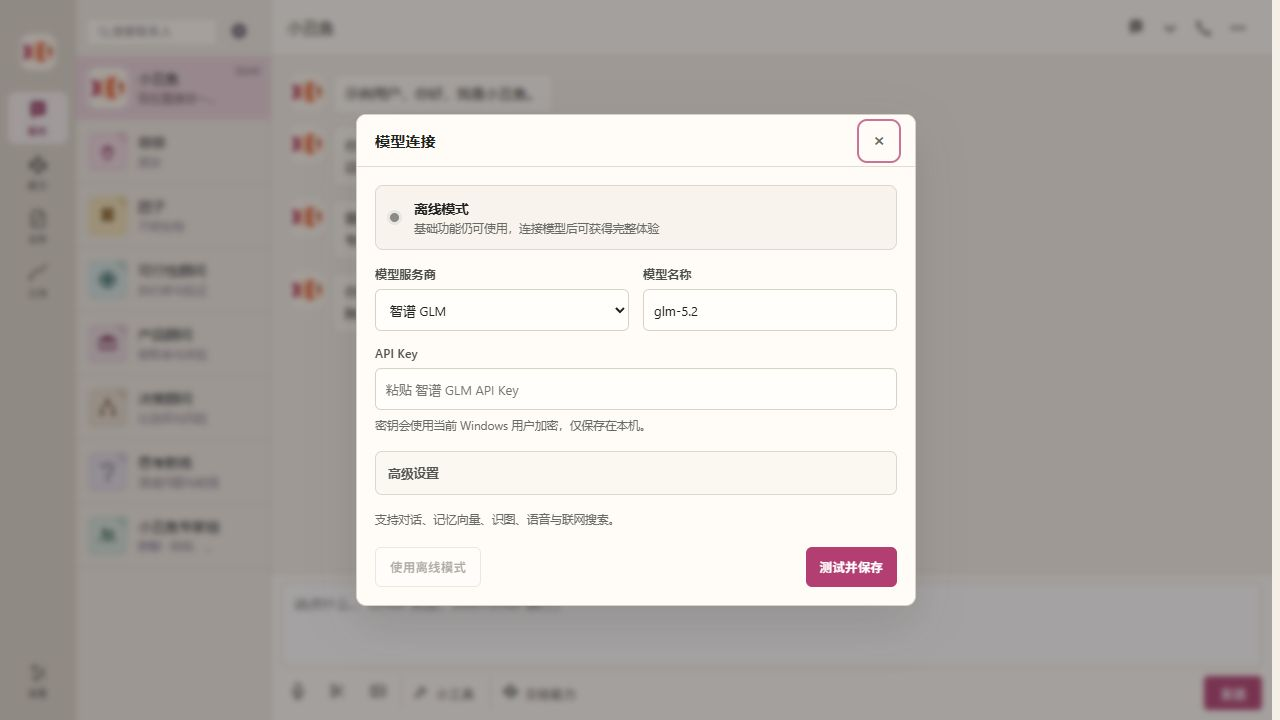
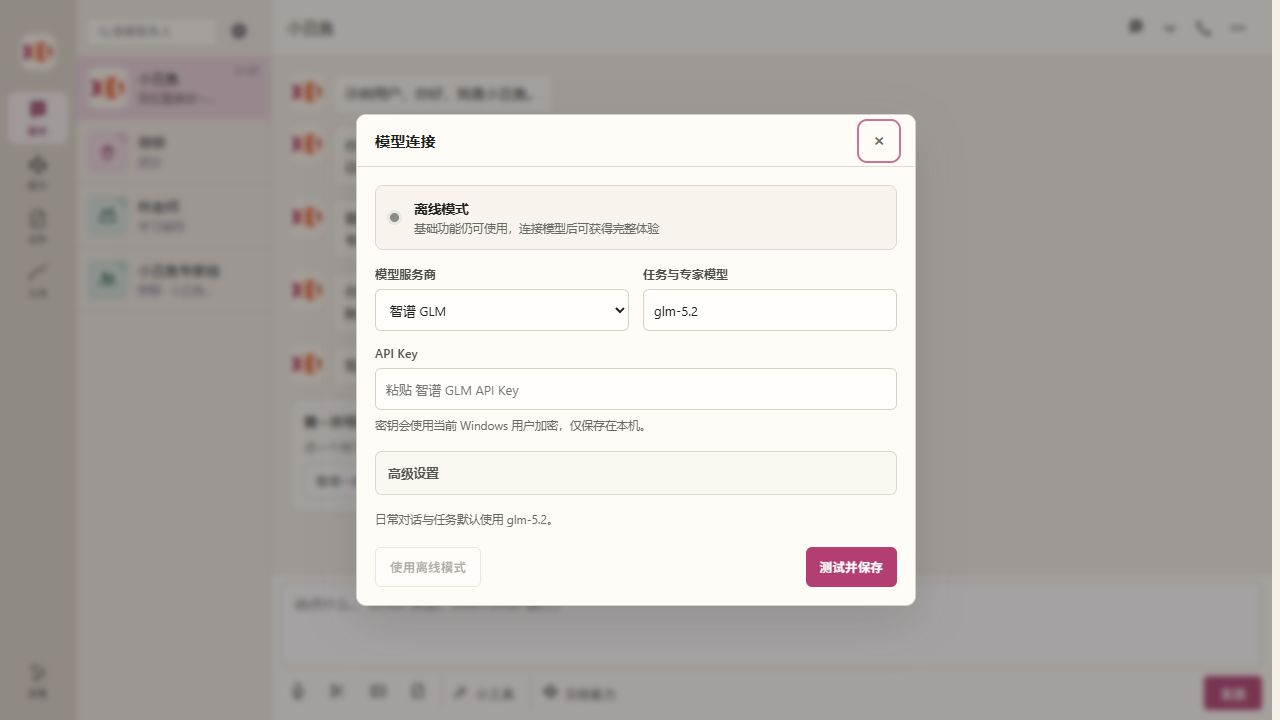
feat(companion): clarify roles and expert routing

diff --git a/sdk/typescript/examples/companion/web/index.html b/sdk/typescript/examples/companion/web/index.html
@@ -2256,6 +2256,24 @@
     color:#b5b8bf;
     font-size:13px;
   }
+  .role-intro-state { min-height:360px; padding:28px; }
+  .role-intro-card {
+    width:min(520px,100%);
+    padding:22px 24px;
+    border:1px solid #ddd8cf;
+    border-radius:16px;
+    background:#fffdf9;
+    text-align:left;
+    box-shadow:0 10px 30px rgba(58,48,38,.05);
+  }
+  .role-intro-head { display:flex; align-items:center; gap:12px; margin-bottom:14px; }
+  .role-intro-head .avatar { width:42px; height:42px; flex:0 0 42px; border-radius:11px; overflow:hidden; display:grid; place-items:center; }
+  .role-intro-head h2 { margin:0; color:#25231f; font-size:18px; font-weight:760; }
+  .role-intro-card > p { margin:0 0 12px; color:#66625b; font-size:13px; line-height:1.65; }
+  .role-intro-card ul { margin:0; padding:0; list-style:none; display:grid; gap:8px; }
+  .role-intro-card li { position:relative; padding-left:16px; color:#35322d; font-size:13px; line-height:1.55; }
+  .role-intro-card li::before { content:""; position:absolute; left:0; top:.62em; width:5px; height:5px; border-radius:50%; background:#b73870; }
+  .role-intro-hint { margin-top:14px !important; padding-top:12px; border-top:1px solid #ebe6de; color:#8a8379 !important; }
   .empty-prompts span {
     background:#fff;
     border-color:#e5e5e5;
@@ -3079,7 +3097,6 @@
         <button class="smitem" id="sm-group" type="button"><span class="smitem-icon" data-icon="users"></span><span><b>群聊与成员</b><small>发起群聊，或管理当前群聊</small></span></button>
         <button class="smitem" id="sm-avatar" type="button"><span class="smitem-icon" data-icon="image"></span><span><b>我的头像</b><small>更换自己的聊天头像</small></span></button>
         <button class="smitem" id="sm-model" type="button"><span class="smitem-icon" data-icon="link"></span><span><b>模型连接</b><small id="sm-model-summary">选择服务商、模型与 API Key</small></span></button>
-        <button class="smitem" id="sm-persona" type="button"><span class="smitem-icon" data-icon="user"></span><span><b>专家与角色</b><small>调整专家和陪伴角色的表达</small></span></button>
         <button class="smitem" id="sm-data" type="button"><span class="smitem-icon" data-icon="brain"></span><span><b>记忆与数据</b><small>查看、纠正和删除本机保存的信息</small></span></button>
         <button class="smitem dev-only" id="sm-sources" type="button"><span class="smitem-icon" data-icon="database"></span><span><b>内容来源</b><small>维护本机来源与连接</small></span></button>
         <button class="smitem dev-only" id="sm-toolsettings" type="button"><span class="smitem-icon" data-icon="settings"></span><span><b>工具设置</b><small>调整翻译、转写和润色</small></span></button>
@@ -3659,6 +3676,7 @@
 <script>
 const BUILD = "v16 clownfish-identity-migration";
 const APP_PERSONA_ID = "clownfish";
+const ADVISORY_GROUP_ID = "nemos_advisory_group";
 const PERSONA_ID_MIGRATIONS = new Map([
   [String.fromCharCode(...[122, 104, 105, 119, 101, 105]), "clownfish"],
   [String.fromCharCode(...[109, 117, 115, 107]), "first_principles"],
@@ -4125,7 +4143,7 @@ function dedupeAppOnboarding() {
   const canonical = [
     displayName + "，你好，我是小丑鱼。",
     "你可以直接告诉我想聊什么或想完成什么。我会回答、调用能力，并把结果留在这段对话里。",
-    "需要不同专业判断时，我会按需邀请原理工程师、产品主理人、决策分析师等功能型专家；他们不会默认占据你的首页。",
+    "需要不同专业判断时，我会按需邀请可行性顾问、产品顾问、决策顾问等功能型专家；他们不会默认占据你的首页。",
     "你的长期偏好、任务记录和交付物默认保存在本机。你可以随时查看、修正或清除。",
     "现在直接说一件你想完成的事就可以。",
   ];
@@ -4296,8 +4314,61 @@ function toggleDeveloperMode() {
   applyDeveloperMode();
 }
 function chatCount() { return Object.values(chatLogs).reduce((n, arr) => n + (Array.isArray(arr) ? arr.length : 0), 0); }
+const ROLE_INTROS = {
+  clownfish: {
+    lead: "我负责把问题接住，并把事情真正推进到结果。",
+    items: ["直接回答、梳理问题和形成方案", "调用能力处理研究、文档、演示和开发任务", "按当前问题邀请专家，并统一交付结论"],
+    hint: "直接说你正在做什么，或想完成什么。",
+  },
+  feifei: {
+    lead: "我是菲菲，适合轻松、平等地聊生活和感受。",
+    items: ["听你说近况，帮助整理复杂情绪", "一起聊关系、选择和生活中的小困扰", "陪你发散灵感，把模糊感受说清楚"],
+    hint: "可以从今天发生的一件小事开始。",
+  },
+  teacher_lin: {
+    lead: "我是林老师，目标是让你真正理解，并能自己解决同类问题。",
+    items: ["用背景、例子和反例讲清概念", "把题目拆成步骤，卡住时及时示范", "整理复习结构，用小测和迁移练习检查掌握"],
+    hint: "告诉我你在学什么、卡在哪里，或直接把题目发来。",
+  },
+  azhe: {
+    lead: "我是阿哲，擅长把混乱的问题拉回到可执行的事情上。",
+    items: ["澄清真正的问题和目标", "比较选择、代价和关键风险", "把下一步压缩成可以马上行动的方案"],
+    hint: "把你纠结的事情直接说出来。",
+  },
+  lingling: {
+    lead: "我是灵灵，一只用很短回应陪在你身边的小灵宠。",
+    items: ["在你疲惫或低落时安静陪伴", "用声音和小动作回应情绪", "不说教，也不替你做决定"],
+    hint: "不需要组织好语言，发一句现在的感受就可以。",
+  },
+};
+const ADVISORY_GROUP_INTRO = {
+  lead: "这里不是固定的一组人在连续发言，而是每轮按当前问题邀请合适的专家。",
+  items: ["主题变化时，参与专家会随之更换", "连续追问同一问题时，优先延续上一轮专家", "也可以用 @ 点名专家；小丑鱼负责最后统筹"],
+  hint: "直接描述问题即可，不需要先选择专家。",
+};
+
+function targetIntro() {
+  if (!state.target) return null;
+  if (state.target.kind === "group" && state.target.id === ADVISORY_GROUP_ID) return ADVISORY_GROUP_INTRO;
+  if (state.target.kind === "persona") return ROLE_INTROS[state.target.id] || null;
+  return null;
+}
+
 function emptyStateHtml() {
   const picked = !!state.target;
+  const intro = targetIntro();
+  if (intro && state.target) {
+    const av = visualOf(state.target.kind, state.target.id);
+    return ''
+      + '<section class="empty-state role-intro-state">'
+      + '  <article class="role-intro-card">'
+      + '    <header class="role-intro-head"><span class="avatar" style="background:' + av.g + '">' + faceHtml(state.target.kind, state.target.id) + '</span><h2>' + esc(state.target.name) + '</h2></header>'
+      + '    <p>' + esc(intro.lead) + '</p>'
+      + '    <ul>' + intro.items.map((item) => '<li>' + esc(item) + '</li>').join('') + '</ul>'
+      + '    <p class="role-intro-hint">' + esc(intro.hint) + '</p>'
+      + '  </article>'
+      + '</section>';
+  }
   const title = picked ? "还没有消息" : "选择一个聊天";
   const desc = picked
     ? "发第一句话后，对话会显示在这里。"
@@ -4316,7 +4387,7 @@ function updateTopMoreButton() {
   if (!btn) return;
   const isApp = state.target && state.target.kind === "persona" && state.target.id === APP_PERSONA_ID;
   setTopActionAvailability(btn, true);
-  const label = state.target && state.target.kind === "group" ? "群管理" : (isApp ? "小丑鱼设置" : "专家设置");
+  const label = state.target && state.target.kind === "group" ? "群管理" : (isApp ? "小丑鱼设置" : "角色设置");
   btn.title = label;
   btn.setAttribute("aria-label", label);
 }
@@ -4619,10 +4690,13 @@ function onboardingBubbleDelay(text, index) {
   return Math.min(5500, Math.max(2400, 1200 + len * 35));
 }
 
+let onboardingBusy = false;
 async function completeOnboarding() {
+  if (onboardingBusy) return;
   const btn = $("#onboardStart");
   const name = ($("#onboardName").value || "").trim();
   if (!name) { $("#onboardError").textContent = "请先输入一个称呼。"; $("#onboardName").focus(); return; }
+  onboardingBusy = true;
   btn.disabled = true;
   $("#onboardError").textContent = "";
   try {
@@ -4638,10 +4712,12 @@ async function completeOnboarding() {
       record(key, { side: "other", who: null, text: msg, pid: APP_PERSONA_ID });
       if (i < messages.length - 1) await sleep(onboardingBubbleDelay(msg, i));
     }
+    dedupeAppOnboarding();
     renderLog();
   } catch (error) {
     $("#onboardError").textContent = error && error.message ? error.message : "保存失败。";
   } finally {
+    onboardingBusy = false;
     btn.disabled = false;
   }
 }
@@ -4696,7 +4772,9 @@ function renderContacts() {
   for (const g of state.groups) {
     const names = g.members.map((id) => (state.personas.find((p) => p.id === id) || {}).name || id).join("、");
     const title = g.name || names;
-    const sub = g.name ? ("群聊 · " + names) : ("群聊 · " + g.members.length + " 人");
+    const sub = g.id === ADVISORY_GROUP_ID
+      ? "群聊 · 每轮按当前问题动态邀请专家"
+      : (g.name ? ("群聊 · " + names) : ("群聊 · " + g.members.length + " 人"));
     if (query && !(title + " " + names).toLowerCase().includes(query)) continue;
     c.appendChild(contactEl("group", g.id, title, sub));
   }
@@ -4749,7 +4827,7 @@ function selectTarget(kind, id, name) {
   state.target = { kind, id, name };
   const av = visualOf(kind, id);
   const per = kind === "persona" ? state.personas.find((x) => x.id === id) : null;
-  let tag = per && per.tag ? per.tag : (kind === "group" ? "群聊" : "");
+  let tag = per && per.tag ? per.tag : (kind === "group" ? (id === ADVISORY_GROUP_ID ? "群聊 · 每轮动态邀请专家" : "群聊") : "");
   if (per && per.familiarity) tag += " · " + per.familiarity; // 熟悉度（随互动量增长）
   $("#header").innerHTML = '<div class="havatar" style="background:' + av.g + '">' + faceHtml(kind, id) + '</div><div><div class="hname">' + esc(name) + "</div>" + (tag ? '<div class="htag">' + esc(tag) + "</div>" : "") + "</div>";
   renderContacts();
@@ -5223,7 +5301,7 @@ function expertLongformSections(replies) {
 }
 
 function shouldRenderExpertLongform(replies) {
-  if (!state.target || state.target.id !== "nemos_advisory_group") return false;
+  if (!state.target || state.target.id !== ADVISORY_GROUP_ID) return false;
   if ((replies || []).some((reply) => reply.artifact)) return false;
   return isSubstantialExpertLongform(expertLongformSections(replies));
 }
@@ -7919,7 +7997,6 @@ $("#sm-model").onclick = openModelModal;
 $("#sm-data").onclick = () => { window.location.href = "/memory"; };
 $("#sm-sources").onclick = () => smRun(openSourceModal);
 $("#sm-toolsettings").onclick = () => smRun(openToolSettings);
-$("#sm-persona").onclick = () => smRun(openPersonaModal);
 $("#sm-memview").onclick = () => smRun(openMemory);
 $("#sm-chathtml").onclick = () => smRun(exportCurrentChatHtml);
 $("#sm-export").onclick = () => smRun(exportBackup);

diff --git a/sdk/typescript/examples/companion/group-routing.ts b/sdk/typescript/examples/companion/group-routing.ts
@@ -15,6 +15,7 @@ export interface GroupParticipation {
 }
 
 const CASUAL_SIGNAL = /^(你好|嗨|哈喽|在吗|早上好|上午好|中午好|下午好|晚上好|晚安|谢谢|哈哈|嗯+|哦+|好的|收到)[呀啊吗呢吧～~！!。.？?]*$/i;
+const CONTINUATION_SIGNAL = /^(继续|接着|往下|展开|详细说说|具体一点|为什么|怎么做|然后呢|这个呢|上一点|刚才那点|第[一二三四五六七八九十\d]+点)/i;
 
 const EXPERT_TOPIC_RULES: Array<{ ids: string[]; pattern: RegExp }> = [
   { ids: ["teacher_lin", "critical_thinking"], pattern: /学习|辅导|讲解|概念|知识点|解题|作业|练习|复习|考试|课程|错题|举例|小测/i },
@@ -29,7 +30,7 @@ const EXPERT_TOPIC_RULES: Array<{ ids: string[]; pattern: RegExp }> = [
   { ids: ["startup_validation", "first_principles"], pattern: /创业|想法|验证|可行性|假设|原理|约束/i },
 ];
 
-function selectAdvisoryExperts(text: string, memberIds: Set<string>): string[] {
+function selectAdvisoryExperts(text: string, memberIds: Set<string>, previousExpertIds: string[]): string[] {
   const selected: string[] = [];
   for (const rule of EXPERT_TOPIC_RULES) {
     if (!rule.pattern.test(text)) continue;
@@ -39,6 +40,10 @@ function selectAdvisoryExperts(text: string, memberIds: Set<string>): string[] {
     }
   }
   if (selected.length > 0) return selected;
+  if (CONTINUATION_SIGNAL.test(text.trim())) {
+    const previous = previousExpertIds.filter((id) => memberIds.has(id)).slice(0, 2);
+    if (previous.length > 0) return previous;
+  }
   // 专家组里的非问候消息都需要真实专家参与；模糊、犹豫和“继续”也属于需要判断的上下文。
   return ["product_lead", "critical_thinking"].filter((id) => memberIds.has(id));
 }
@@ -66,6 +71,7 @@ export function resolveGroupReplyRoute(
   members: GroupRouteMember[],
   advisoryGroupId: string,
   coordinatorPersonaId = "clownfish",
+  previousExpertIds: string[] = [],
 ): GroupReplyRoute {
   const body = text || "";
   const explicitlyMentionedPersonaIds = members
@@ -86,7 +92,7 @@ export function resolveGroupReplyRoute(
     const memberIds = new Set(members.map((member) => member.id));
     const trimmed = body.trim();
     const invitedExperts = trimmed && !CASUAL_SIGNAL.test(trimmed)
-      ? selectAdvisoryExperts(trimmed, memberIds)
+      ? selectAdvisoryExperts(trimmed, memberIds, previousExpertIds)
       : [];
     return {
       // 专家先给出各自判断，小丑鱼最后读取本轮群记录并负责整合。

diff --git a/sdk/typescript/examples/companion/server.ts b/sdk/typescript/examples/companion/server.ts
@@ -1676,8 +1676,22 @@ function groupDisplayName(group: GroupInfo): string {
   return group.members.map((id) => PERSONAS.find((p) => p.id === id)?.name || id).join("、") || group.id;
 }
 
+const recentAdvisoryExperts = new Map<string, string[]>();
+
 function groupReplyRoute(groupId: string, text: string) {
-  return resolveGroupReplyRoute(groupId, text, engine.groupMembers(groupId), ADVISORY_GROUP_ID);
+  const route = resolveGroupReplyRoute(
+    groupId,
+    text,
+    engine.groupMembers(groupId),
+    ADVISORY_GROUP_ID,
+    APP_PERSONA_ID,
+    recentAdvisoryExperts.get(groupId) ?? [],
+  );
+  if (groupId === ADVISORY_GROUP_ID) {
+    const experts = (route.responderPersonaIds ?? []).filter((id) => id !== APP_PERSONA_ID);
+    if (experts.length > 0) recentAdvisoryExperts.set(groupId, experts);
+  }
+  return route;
 }
 
 function memoryDisplayContent(content: string): string {

diff --git a/sdk/typescript/tests/unit/companion-icon-system.test.ts b/sdk/typescript/tests/unit/companion-icon-system.test.ts
@@ -66,3 +66,18 @@ test("角色使用功能徽记，右侧操作始终保留固定槽位", () => {
     assert.match(experts, new RegExp(`name: "${name}"`));
   }
 });
+
+test("首次角色对话说明用途，专家配置不再占用全局设置", () => {
+  const page = readFileSync(join(webRoot, "index.html"), "utf8");
+
+  for (const roleId of ["clownfish", "feifei", "teacher_lin", "azhe", "lingling"]) {
+    assert.match(page, new RegExp(`${roleId}: \\{`));
+  }
+  assert.match(page, /每轮按当前问题动态邀请专家/);
+  assert.match(page, /连续追问同一问题时，优先延续上一轮专家/);
+  assert.doesNotMatch(page, /id="sm-persona"/);
+  assert.doesNotMatch(page, />专家与角色</);
+  assert.match(page, /"角色设置"/);
+  assert.match(page, /let onboardingBusy = false/);
+  assert.match(page, /dedupeAppOnboarding\(\);\s*renderLog\(\)/);
+});

diff --git a/README.en.md b/README.en.md
@@ -12,12 +12,24 @@ Clownfish combines four everyday surfaces:
 
 | Surface | User action | Current implementation |
 |---|---|---|
-| **Chat** | Ask, upload images, speak, and resume past conversations | Conversation branches, role or expert collaboration, and in-chat delivery |
+| **Chat** | Ask, upload images or files, speak, and resume past conversations | A single Clownfish entry, optional companion and teaching roles, expert-group collaboration, and in-chat delivery |
 | **Capabilities** | Describe an outcome or choose a capability directly | Background jobs, live progress, cancellation, retries, previews, and downloads |
 | **Files** | Open Word, PowerPoint, Excel, or PDF files | Original-file retention, local working copies, inline processing, and versions |
 | **Work** | Review tasks, results, runs, and memory | Scheduled tasks, artifacts, execution records, and preference management |
 
 New users do not need to create a project or understand tool names first.
+
+## Chat: a simple entry with expertise where it belongs
+
+The home screen keeps three clear default one-to-one entries:
+
+- **Clownfish** handles everyday questions, capability calls, expert coordination, and final delivery;
+- **Feifei** provides friend-like conversation;
+- **Teacher Lin** supports concept learning, step-by-step problem solving, review, and transfer practice.
+
+The first time a role conversation is opened, the page briefly explains what that role can help with and which problems it suits, so users do not need to probe for its purpose.
+
+Functional experts no longer occupy separate one-to-one contacts. They live in the Clownfish expert group and are not locked after the first turn: every turn is routed from the current topic, follow-ups prefer the previous specialists, topic changes select a new set, and `@expert` can name someone explicitly. Clownfish coordinates the final result. When chat hands work to a capability, both the original conversation text and a distilled task context are transferred instead of only the final sentence.
 
 ## Capabilities: describe the goal or choose directly
 
@@ -30,7 +42,7 @@ Selection opens the task form immediately, without an extra preparation step. Jo
 
 ![Clownfish capabilities](docs/assets/readme/clownfish-capabilities.jpg)
 
-Built-in capabilities cover presentation creation, formal documents, deep research, Hong Kong market briefs, complex-problem framing, product interface design, meeting minutes, web reports, option comparison, business development, market opportunity simulation, and new-capability generation.
+Built-in capabilities cover presentation creation, formal documents, deep research, Hong Kong market briefs, complex-problem framing, product interface design, project development, meeting minutes, web reports, option comparison, business development, market opportunity simulation, and new-capability generation.
 
 Outputs include PPTX, DOCX, PDF, XLSX, HTML, Markdown, and structured data.
 
@@ -42,6 +54,7 @@ The file workspace supports DOCX, PPTX, XLSX, and PDF:
 - The original stays local and is never overwritten by editing;
 - PDFs retain their original layout; Office formats receive a structured preview while the original file is retained;
 - Editing, versions, AI progress, and results stay on the same page;
+- Deleted working files move to a recoverable trash area before permanent deletion;
 - Results can be exported to DOCX, PDF, PPTX, XLSX, HTML, or Markdown.
 
 ![Clownfish office workspace](docs/assets/readme/clownfish-office.jpg)
@@ -67,6 +80,8 @@ See the [TypeScript SDK](sdk/typescript/README.en.md) and the [v0.7 implementati
 
 Choose a provider, model name, and API key under **Settings → Model connection**. Clownfish tests the connection before saving it.
 
+Clownfish follows provider presets when routing models. Providers with a separate daily-chat model use it automatically, while experts, capabilities, file generation, and complex work use the configured task model. When no separate route is defined, both use the same model. A conversation can also override the model explicitly.
+
 ![Clownfish model connection](docs/assets/readme/clownfish-model-connection.jpg)
 
 Presets are available for Zhipu GLM, OpenAI, Anthropic Claude, DeepSeek, Alibaba Qwen, MiniMax, and custom services. OpenAI-compatible and Anthropic-compatible protocols are supported. Vision, web, voice, and embedding support depends on the selected service and model.
@@ -82,7 +97,7 @@ On Windows, secrets are encrypted with DPAPI for the current user and full keys 
 
 ## Run locally
 
-Node.js 20 or newer is required.
+Node.js 22.19 or newer is required.
 
 ~~~powershell
 cd sdk\typescript

diff --git a/README.md b/README.md
@@ -12,12 +12,24 @@
 
 | 入口 | 用户操作 | 当前实现 |
 |---|---|---|
-| **聊天** | 提问、上传图片、发送语音、继续历史对话 | 独立对话与分支、角色或专家协作、结果回到原对话 |
+| **聊天** | 提问、上传图片或文件、发送语音、继续历史对话 | 小丑鱼主入口、可选陪伴与学习角色、专家组协作、结果回到原对话 |
 | **能力** | 直接描述目标，或直接选择一种能力 | 后台任务、实时进度、取消与重试、结果预览和下载 |
 | **文件** | 打开 Word、PowerPoint、Excel 或 PDF | 保留原文件、编辑本机工作副本、页内处理和版本记录 |
 | **工作** | 查看任务、结果、运行和记忆 | 计划任务、交付物、运行记录、习惯管理 |
 
 新用户不需要先创建项目，也不需要先理解工具名称。
+
+## 对话：入口简单，专业分工放在需要的地方
+
+首页默认只保留三个清楚的一对一入口：
+
+- **小丑鱼**负责日常问答、调用能力、组织专家和交付结果；
+- **菲菲**用于朋友式交流；
+- **林老师**负责概念讲解、分步解题、复习和迁移练习。
+
+首次打开角色对话时，页面会先简要说明这个角色能帮助什么、适合解决哪些问题，不需要用户先试探角色定位。
+
+功能型专家不再作为一排一对一联系人出现，而是集中在“小丑鱼专家组”。专家不是首轮选定后永久固定：系统每轮都按当前问题判断，连续追问优先延续上一轮专家，主题变化时重新邀请，也可以通过 `@专家` 明确点名；小丑鱼负责最后统筹。聊天转交能力时，会同时保留用户原文和提炼后的任务上下文，而不是只传递最后一句话。
 
 ## 能力：说目标，也可以直接选
 
@@ -56,6 +68,7 @@
 - 原文件保留在本机，不会被编辑流程覆盖；
 - PDF 可显示原始版式，Office 文件提供结构化预览并保留原文件；
 - 编辑、版本记录、AI 处理进度和结果都留在当前页面；
+- 删除工作文件时先进入垃圾桶，可恢复，也可明确永久删除；
 - 可以导出 DOCX、PDF、PPTX、XLSX、HTML 和 Markdown。
 
 ![小丑鱼办公文件页](docs/assets/readme/clownfish-office.jpg)
@@ -81,7 +94,7 @@
 
 在 **设置 → 模型连接** 中选择服务商、模型名称和 API Key。系统会先验证连接，再保存配置。
 
-小丑鱼会自动分配模型：日常单人对话使用服务商的轻量模型，专家、能力、文件生成和复杂任务使用这里配置的主模型；也可以在单个对话的设置中手动指定模型。
+小丑鱼会按服务商预设分配模型：支持独立日常对话模型的服务会自动分流，专家、能力、文件生成和复杂任务使用这里配置的任务模型；没有独立分流时，两类任务使用同一个模型。也可以在单个对话的设置中手动指定模型。
 
 ![小丑鱼模型连接](docs/assets/readme/clownfish-model-connection.jpg)
 
